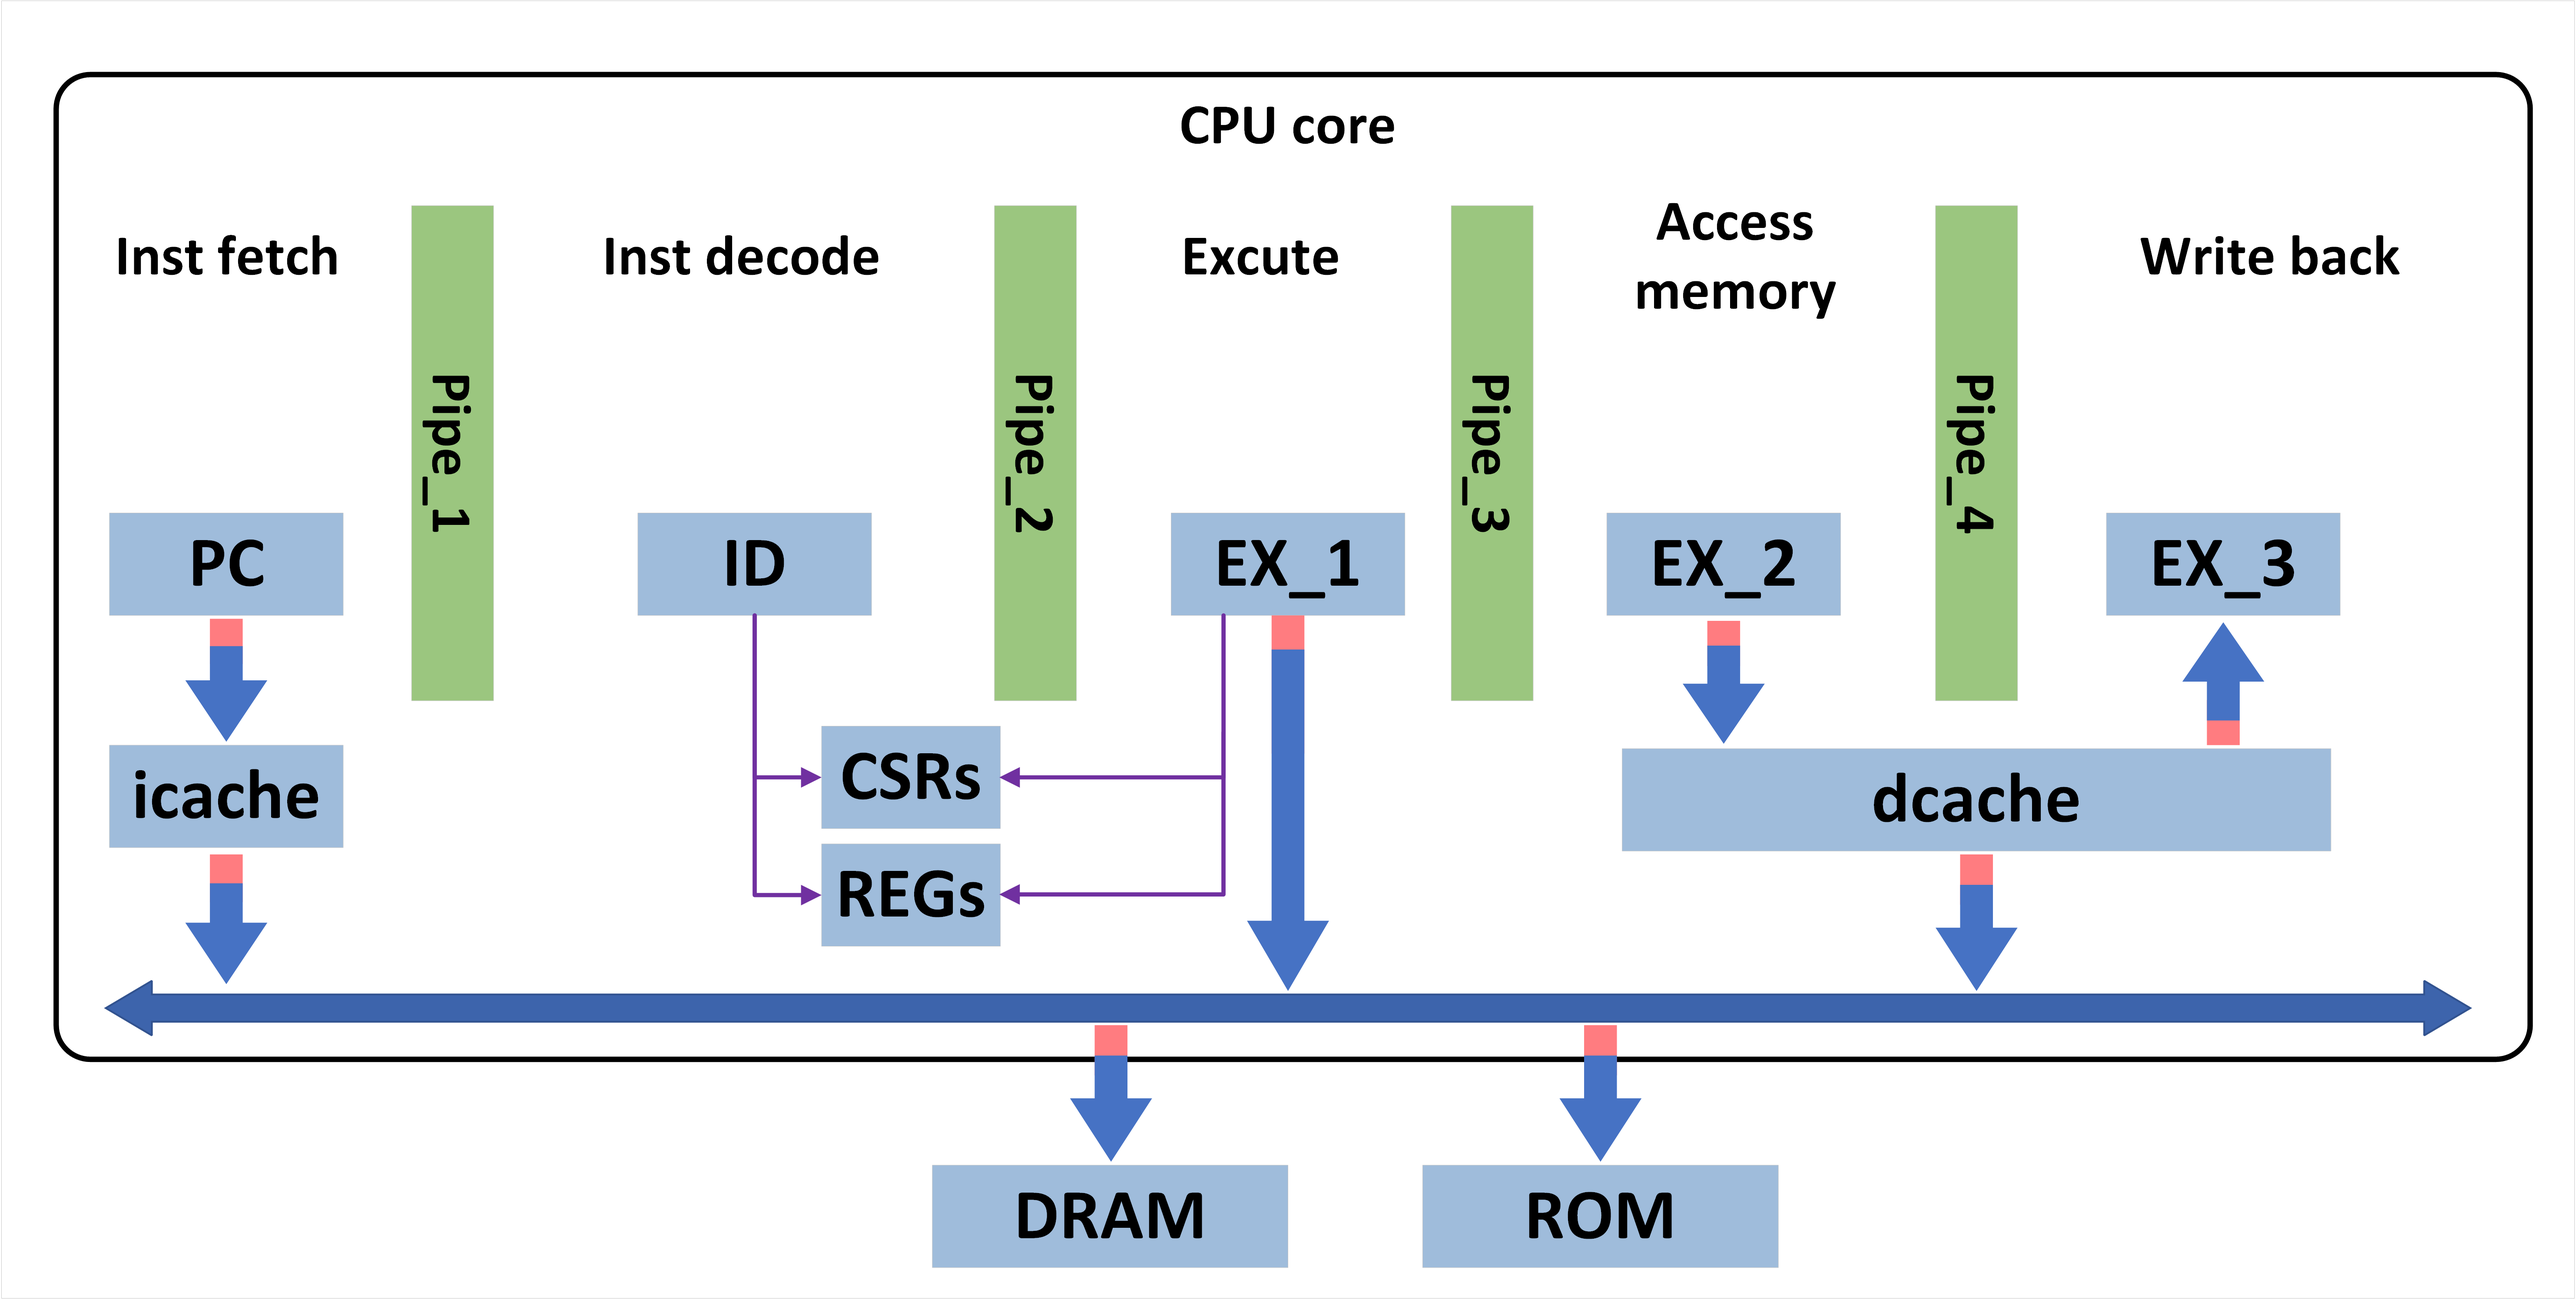
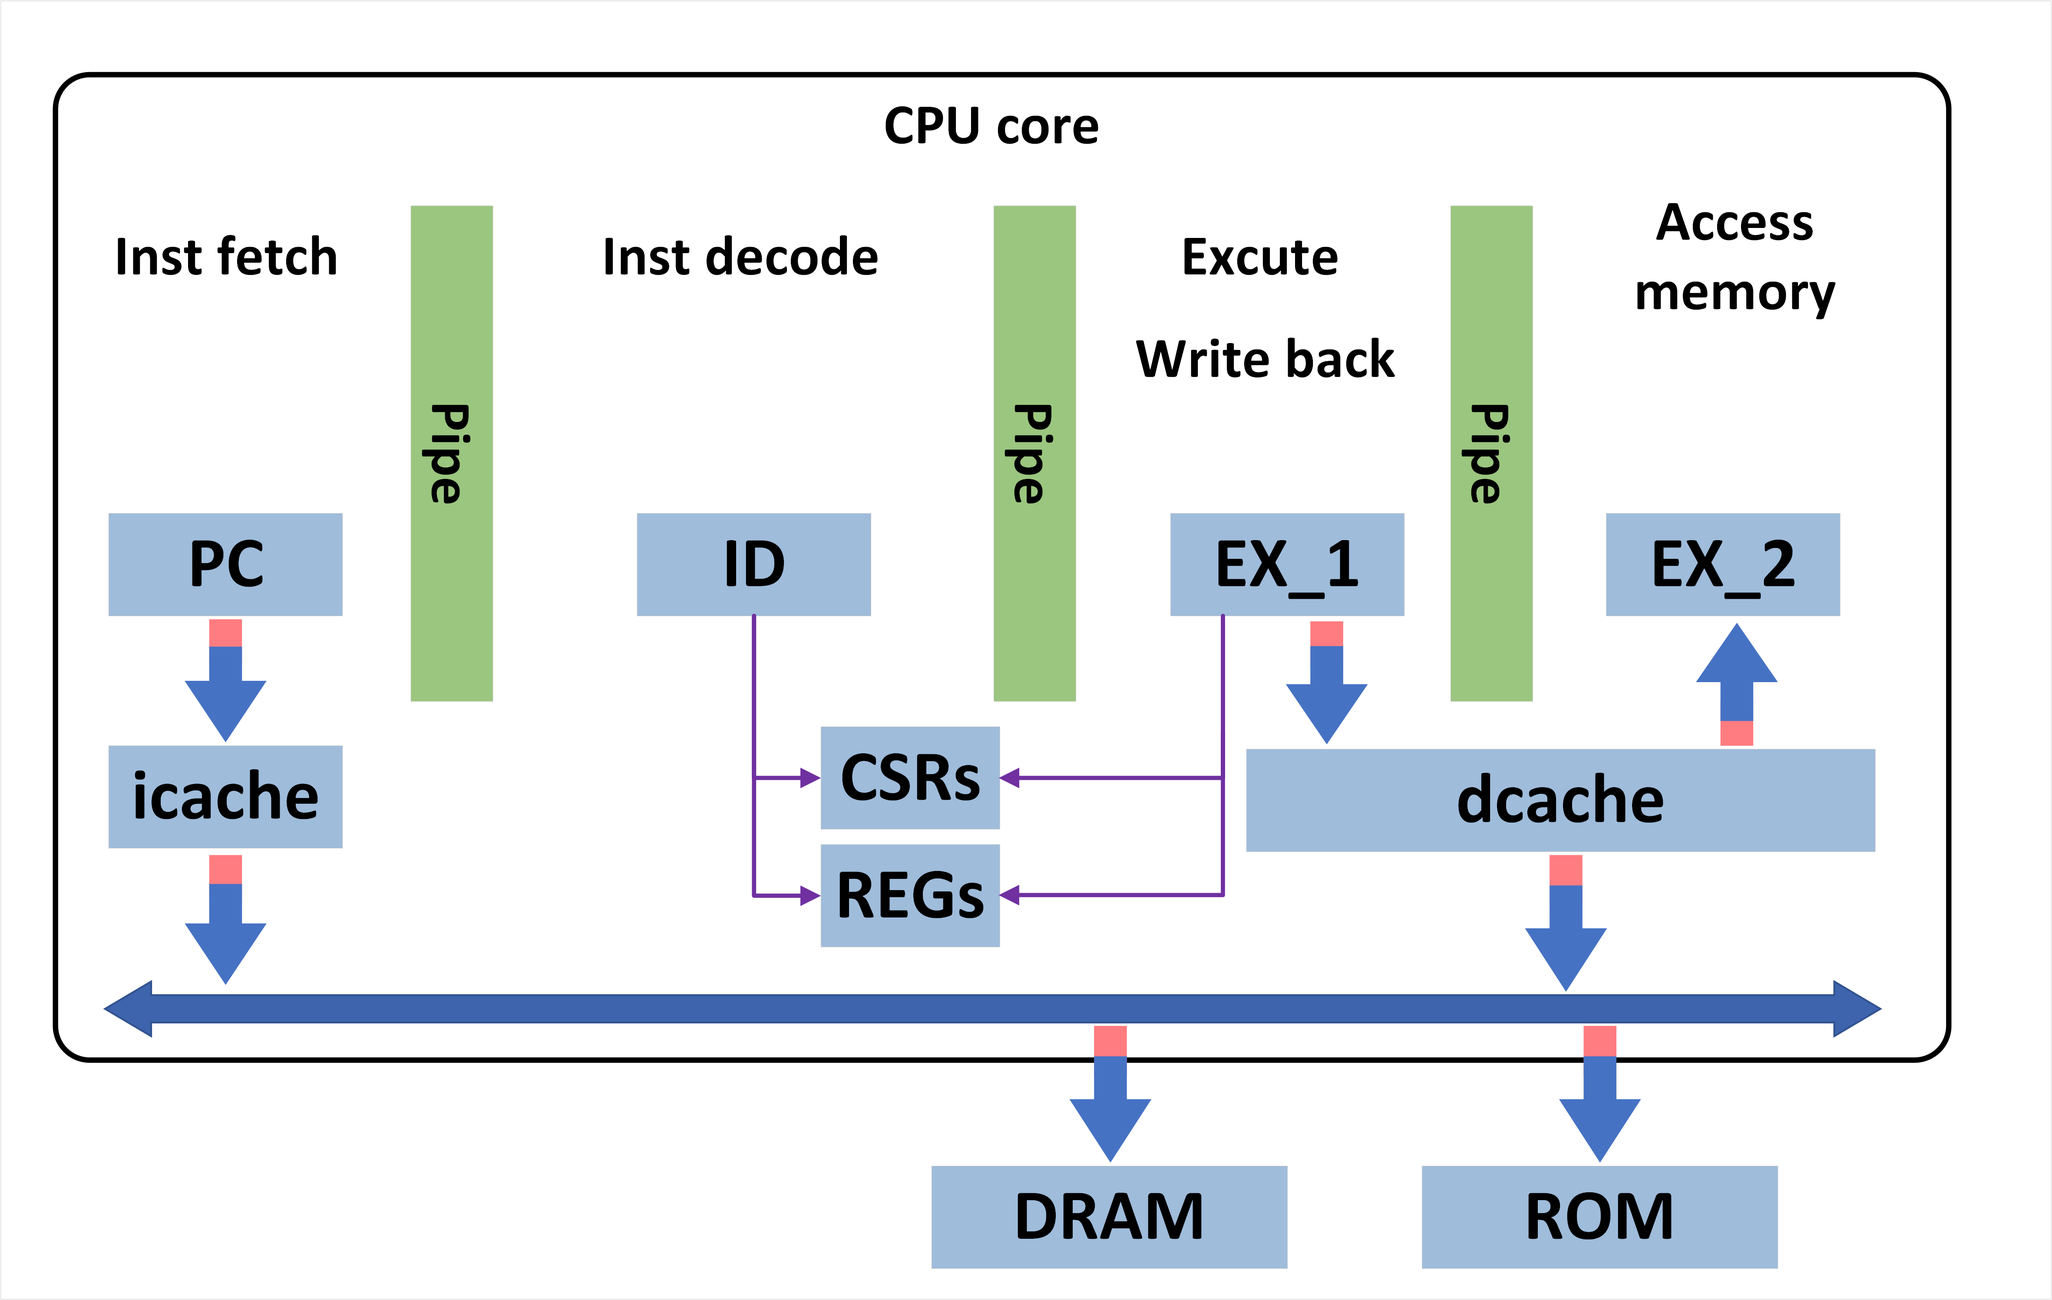
更新了结构图

diff --git a/readme.md b/readme.md
@@ -1,0 +1,23 @@
+risc-v 32i设计
+============================================================
+本项目是笔者从经典的 liangkangnan 的tinyrisc-v开始，在master分支学习搭建r-v。在pipe5分支搭建了带cache的版本。
+
+可以使用下指令得到liangkangnan的源码
+
+`git clone https://gitee.com/liangkangnan/tinyriscv.git`
+
+其中cache设计使用了airin717的4way-4word设计。
+`https://github.com/airin711/Verilog-caches.git`
+
+在跟着原设计敲了一遍后，发现没有cache设计，并且对rom/ram的访问也过于理想，于是考虑加上cache。
+由于添加了cache，访存和写回的环节必须要添加流水线。
+因此在源码的基础上重新设计了大多数模块。
+整体结构的设计尽可能保持不变，但区分开 <指令译码> 和 <执行> 阶段的任务，原设计在译码时就准备好了写地址/使能，只在执行阶段做了数据计算这项任务。
+本设计只在 <指令译码> 时预读取寄存器。针对外部存储的访问，放在执行阶段，执行Load指令会暂停流水线，直到load完成，store指令则发起往cache的请求后不等待写完成。
+
+<div align=center>
+<img src="https://github.com/ltcxynu/risc_32i/pic/rv32i.png" width="180" height="105">
+
+</div>
+解决GTKwave字体大小的方法
+gtkwave *.vcd --rcvar 'fontname_signals Monospace 20' --rcvar 'fontname_waves Monospace 18'
